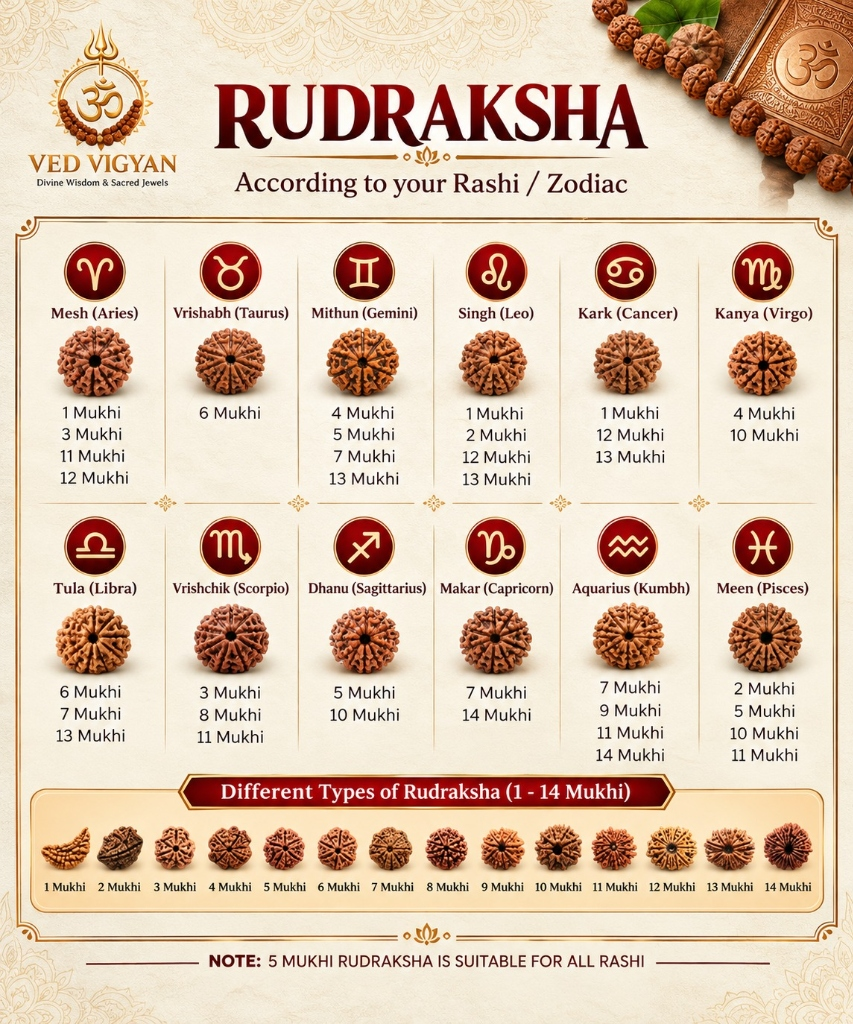
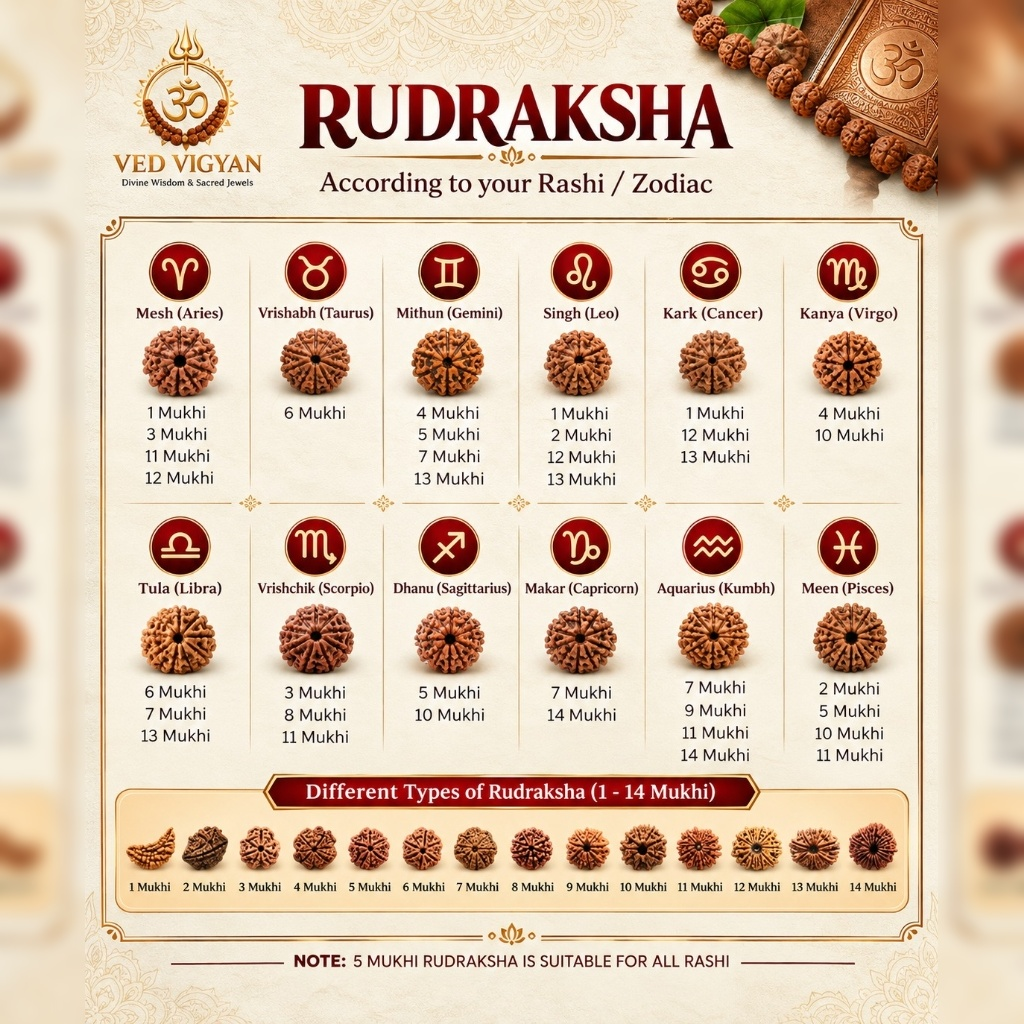
Restore standard full-bleed square PDP gallery layout for 7 Mukhi Rudraksha to match front view card

diff --git a/frontend/public/css/home-luxury.css b/frontend/public/css/home-luxury.css
@@ -8417,30 +8417,6 @@ html, body {
   background: #ffffff !important;
 }
 
-/* 7 Mukhi Rudraksha (vv_p13): Never crop images or infographics, always center and contain */
-.pdp-grid .product-carousel[data-carousel-id="vv_p13"] .carousel-slide,
-.pdp-grid .product-carousel[data-product-name*="7 Mukhi"] .carousel-slide,
-.product-carousel[data-carousel-id="vv_p13"] .carousel-slide,
-.product-carousel[data-product-name*="7 Mukhi"] .carousel-slide {
-  background: #ffffff !important;
-}
-.pdp-grid .product-carousel[data-carousel-id="vv_p13"] .carousel-slide img,
-.pdp-grid .product-carousel[data-product-name*="7 Mukhi"] .carousel-slide img,
-.product-carousel[data-carousel-id="vv_p13"] .carousel-slide img,
-.product-carousel[data-product-name*="7 Mukhi"] .carousel-slide img {
-  width: 100% !important;
-  height: 100% !important;
-  max-width: 100% !important;
-  max-height: 100% !important;
-  object-fit: contain !important;
-  object-position: center !important;
-  background: #ffffff !important;
-  padding: 6px !important;
-  box-sizing: border-box !important;
-  border-radius: 12px !important;
-  display: block !important;
-  margin: 0 auto !important;
-}
 
 /* Mobile & Desktop PDP Layout Positioning & Responsive Wrapping */
 .pdp-grid {
